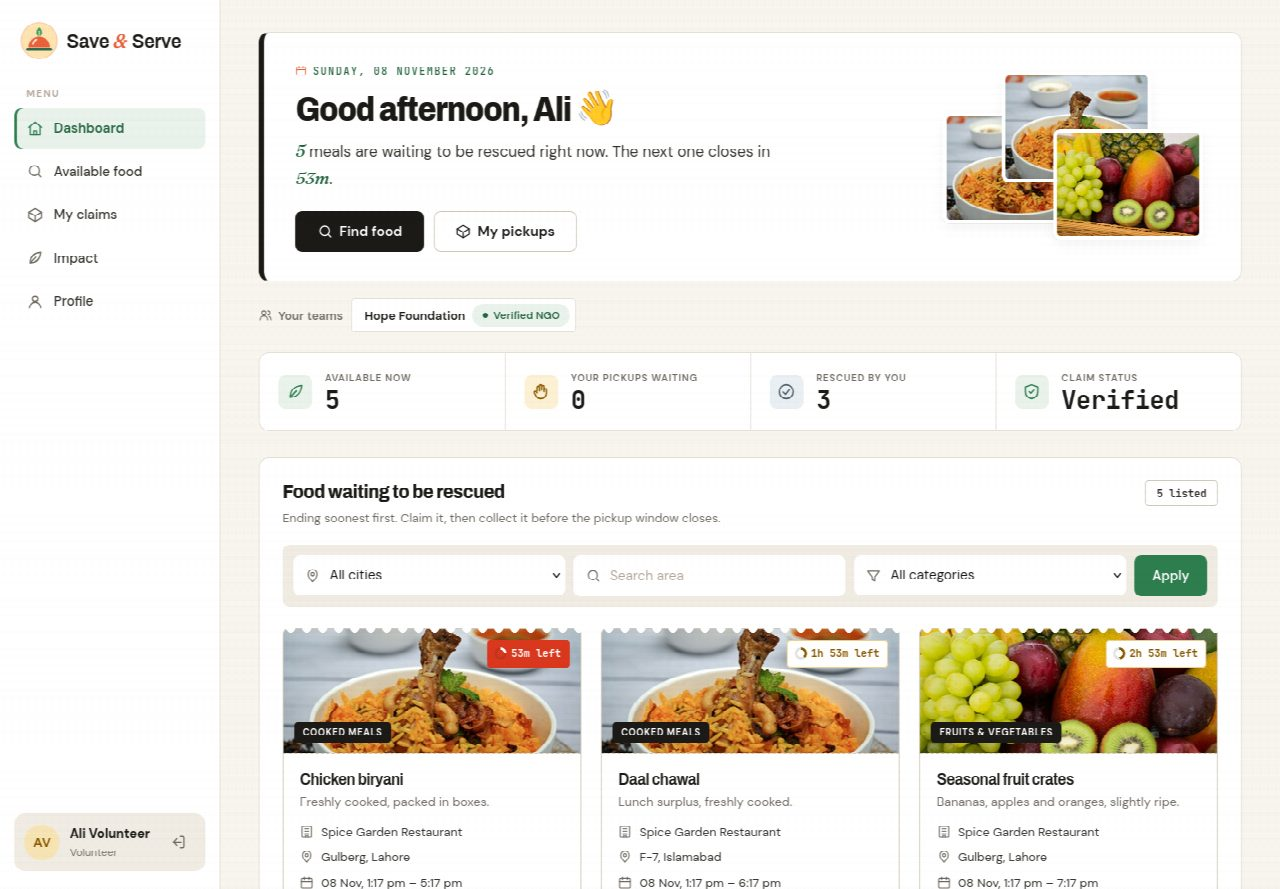
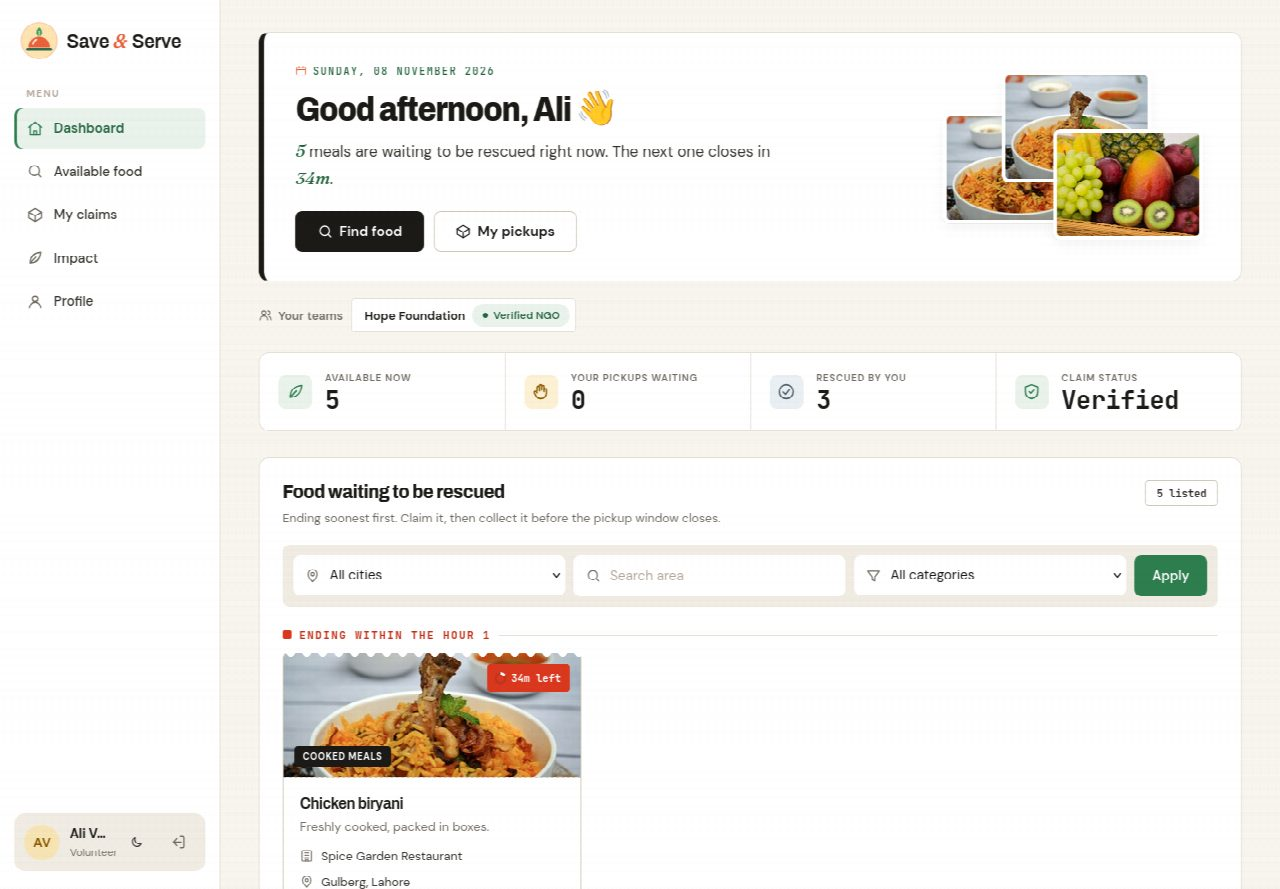
README: document the redesign features and refresh screenshots

Changed region(s): [[0.2188, 0.6985, 0.9688, 1.0], [0.0625, 0.9111, 0.125, 0.9415], [0.2188, 0.1822, 0.25, 0.2126]]

diff --git a/README.md b/README.md
@@ -19,13 +19,16 @@ See [PRD.md](PRD.md) for requirements and [docs/erd.mmd](docs/erd.mmd) for the d
 
 ### Donor
 - Post surplus food: title, category, quantity, description, pickup window and pickup address.
-- Dashboard of all their posts with status, time left and who claimed each one.
+- Dashboard as three lanes: **Now** (waiting for a claim), **Next** (collector on the way) and **Done**.
+- **Post again** from any previous post, and quick pickup-window chips (next 2h, 4h, until midnight).
 - **Edit** or **withdraw** a post while nobody has claimed it. Extending the pickup time revives an expired post.
 - See the claimer's name, NGO and phone, then confirm the pickup by entering the collector's **pickup code** (or scanning their QR code).
 
 ### NGO / volunteer
 - Browse available food as cards, soonest-ending first, with **filters** by city, area and category.
-- **Claim** food (one claim per post) and **cancel** a claim if plans change.
+- Open food is grouped by urgency (ending within the hour, later today, tomorrow).
+- **Claim** food after a confirmation sheet ("Can you get there by 5:17 pm?") and **cancel** a claim if plans change.
+- A full-screen **pickup pass** (code, QR, address) to show the donor at handover.
 - After claiming, see the donor's **full pickup address and phone number**, plus a **6-digit pickup code and QR code** to show at handover.
 - NGO managers have a **My team** page: add volunteers by email and remove them.
   Members of a verified NGO can claim on its behalf.
@@ -35,6 +38,8 @@ See [PRD.md](PRD.md) for requirements and [docs/erd.mmd](docs/erd.mmd) for the d
 - Overview of pending requests, registered users and completed pickups.
 
 ### Everyone
+- **Light and dark mode** (follows the device, with a toggle), keyboard-friendly focus styles and a skip link.
+- **Mobile bottom tab bar** on phones, with a raised button for each role's main action.
 - **Post detail page** with a **history timeline**: who posted, claimed, cancelled or collected, and when.
 - **Impact dashboard** with charts: plates saved, success rate, average time to claim, a 14-day activity chart, posts by category, outcomes, and top donors and collectors.
 - **Profile page** to edit name, phone and address, and to change the password.
@@ -138,6 +143,8 @@ The seed also contains two weeks of past activity so the Impact charts have data
 | ![Post detail](docs/screenshots/post.jpg) | ![Team page](docs/screenshots/team.jpg) |
 | **Impact dashboard** | **Admin** |
 | ![Impact](docs/screenshots/impact.jpg) | ![Admin](docs/screenshots/admin.jpg) |
+| **Dark mode** | |
+| ![Dark mode](docs/screenshots/dark.jpg) | |
 
 ## Project structure
 ```
